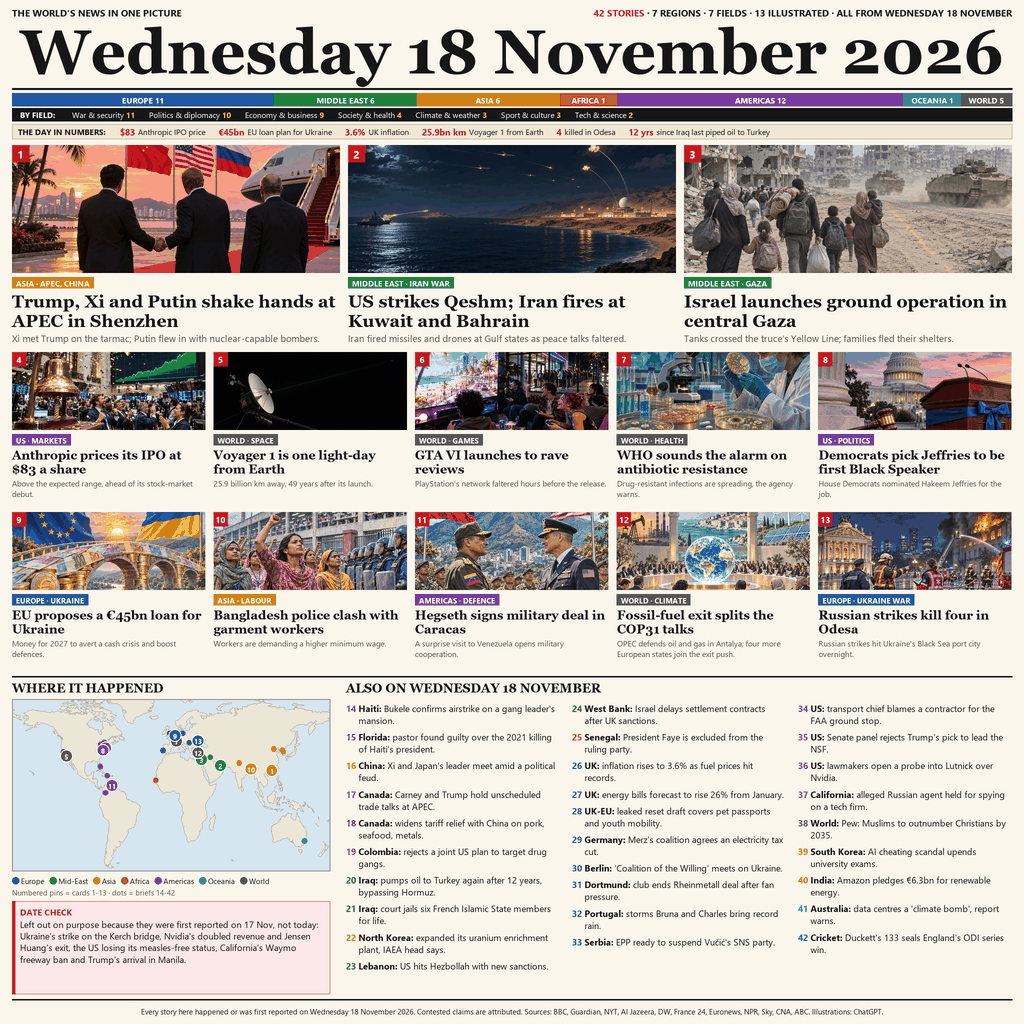
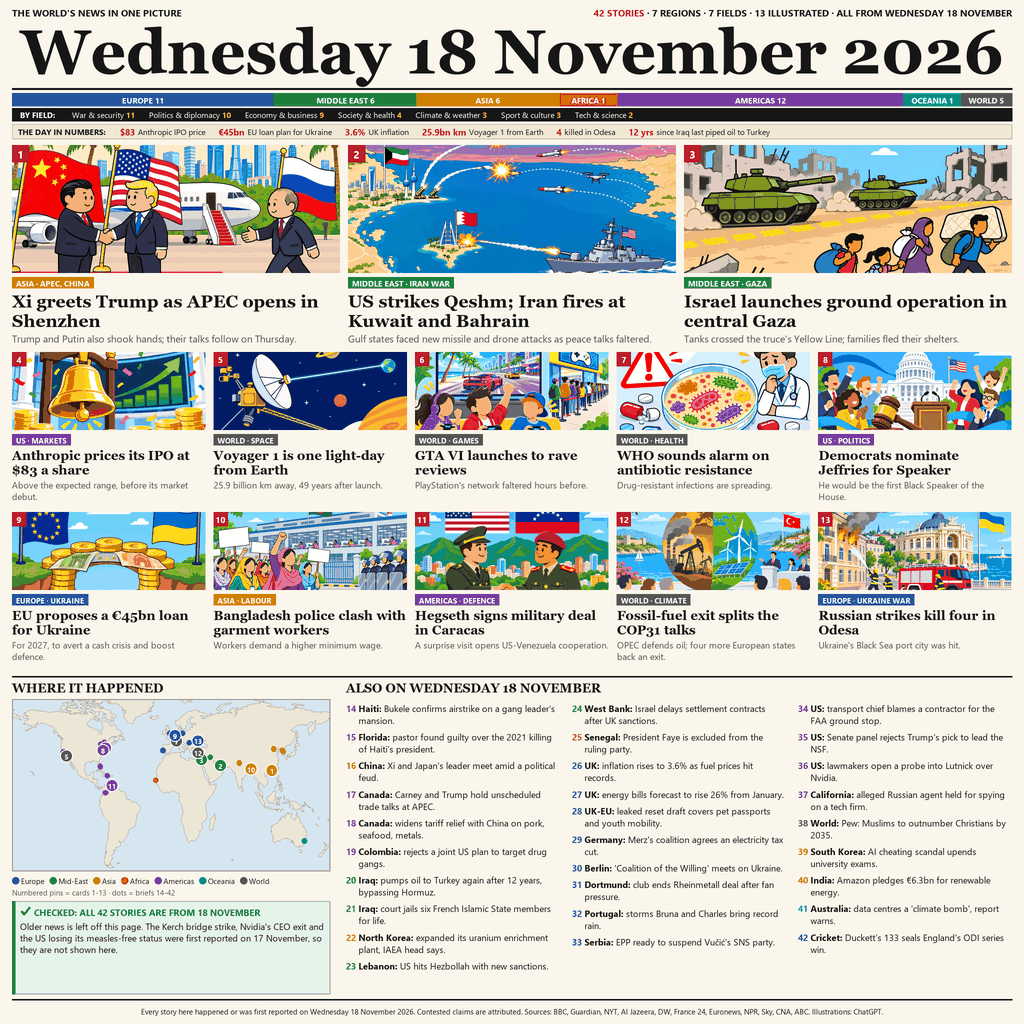
v2: flat-vector illustrations, consistent APEC lead, clearer date check, larger card text

diff --git a/make_front.py b/make_front.py
@@ -23,34 +23,34 @@ INK, PAPER, MUTED, RED = (22, 22, 22), (250, 246, 236), (88, 84, 76), (190, 30, 
 
 # (region, tag, headline, detail, lon, lat) - every item first reported on 18 Nov 2026
 LEADS = [
-    ("Asia", "ASIA \u00b7 APEC, CHINA", "Trump, Xi and Putin shake hands at APEC in Shenzhen",
-     "Xi met Trump on the tarmac; Putin flew in with nuclear-capable bombers.", 114.1, 22.5),
+    ("Asia", "ASIA \u00b7 APEC, CHINA", "Xi greets Trump as APEC opens in Shenzhen",
+     "Trump and Putin also shook hands; their talks follow on Thursday.", 114.1, 22.5),
     ("Middle East", "MIDDLE EAST \u00b7 IRAN WAR", "US strikes Qeshm; Iran fires at Kuwait and Bahrain",
-     "Iran fired missiles and drones at Gulf states as peace talks faltered.", 55.9, 26.8),
+     "Gulf states faced new missile and drone attacks as peace talks faltered.", 55.9, 26.8),
     ("Middle East", "MIDDLE EAST \u00b7 GAZA", "Israel launches ground operation in central Gaza",
      "Tanks crossed the truce's Yellow Line; families fled their shelters.", 34.4, 31.4),
 ]
 CARDS = [
     ("Americas", "US \u00b7 MARKETS", "Anthropic prices its IPO at $83 a share",
-     "Above the expected range, ahead of its stock-market debut.", -74.0, 40.7),
+     "Above the expected range, before its market debut.", -74.0, 40.7),
     ("World", "WORLD \u00b7 SPACE", "Voyager 1 is one light-day from Earth",
-     "25.9 billion km away, 49 years after its launch.", -118.2, 34.2),
+     "25.9 billion km away, 49 years after launch.", -118.2, 34.2),
     ("World", "WORLD \u00b7 GAMES", "GTA VI launches to rave reviews",
-     "PlayStation's network faltered hours before the release.", None, None),
-    ("World", "WORLD \u00b7 HEALTH", "WHO sounds the alarm on antibiotic resistance",
-     "Drug-resistant infections are spreading, the agency warns.", 6.1, 46.2),
-    ("Americas", "US \u00b7 POLITICS", "Democrats pick Jeffries to be first Black Speaker",
-     "House Democrats nominated Hakeem Jeffries for the job.", -77.0, 38.9),
+     "PlayStation's network faltered hours before.", None, None),
+    ("World", "WORLD \u00b7 HEALTH", "WHO sounds alarm on antibiotic resistance",
+     "Drug-resistant infections are spreading.", 6.1, 46.2),
+    ("Americas", "US \u00b7 POLITICS", "Democrats nominate Jeffries for Speaker",
+     "He would be the first Black Speaker of the House.", -77.0, 38.9),
     ("Europe", "EUROPE \u00b7 UKRAINE", "EU proposes a \u20ac45bn loan for Ukraine",
-     "Money for 2027 to avert a cash crisis and boost defences.", 4.4, 50.8),
+     "For 2027, to avert a cash crisis and boost defence.", 4.4, 50.8),
     ("Asia", "ASIA \u00b7 LABOUR", "Bangladesh police clash with garment workers",
-     "Workers are demanding a higher minimum wage.", 90.4, 23.8),
+     "Workers demand a higher minimum wage.", 90.4, 23.8),
     ("Americas", "AMERICAS \u00b7 DEFENCE", "Hegseth signs military deal in Caracas",
-     "A surprise visit to Venezuela opens military cooperation.", -66.9, 10.5),
+     "A surprise visit opens US-Venezuela cooperation.", -66.9, 10.5),
     ("World", "WORLD \u00b7 CLIMATE", "Fossil-fuel exit splits the COP31 talks",
-     "OPEC defends oil and gas in Antalya; four more European states join the exit push.", 30.7, 36.9),
+     "OPEC defends oil; four more European states back an exit.", 30.7, 36.9),
     ("Europe", "EUROPE \u00b7 UKRAINE WAR", "Russian strikes kill four in Odesa",
-     "Russian strikes hit Ukraine's Black Sea port city overnight.", 30.7, 46.5),
+     "Ukraine's Black Sea port city was hit.", 30.7, 46.5),
 ]
 # (region, place, text, lon, lat)
 BRIEFS = [
@@ -89,9 +89,9 @@ FIELDS = [("War & security", 11), ("Politics & diplomacy", 10), ("Economy & busi
 NUMBERS = [("$83", "Anthropic IPO price"), ("\u20ac45bn", "EU loan plan for Ukraine"),
            ("3.6%", "UK inflation"), ("25.9bn km", "Voyager 1 from Earth"),
            ("4", "killed in Odesa"), ("12 yrs", "since Iraq last piped oil to Turkey")]
-DATE_CHECK = ("Left out on purpose because they were first reported on 17 Nov, not today: "
-              "Ukraine's strike on the Kerch bridge, Nvidia's doubled revenue and Jensen Huang's exit, "
-              "the US losing its measles-free status, California's Waymo freeway ban and Trump's arrival in Manila.")
+DATE_HEAD = "CHECKED: ALL 42 STORIES ARE FROM 18 NOVEMBER"
+DATE_CHECK = ("Older news is left off this page. The Kerch bridge strike, Nvidia's CEO exit and the US "
+              "losing its measles-free status were first reported on 17 November, so they are not shown here.")
 
 
 def font(name, size):
@@ -145,14 +145,10 @@ def bands(im, axis, min_len):
 
 
 def load_art():
-    """3 lead pictures, then 10 card pictures in card order."""
-    leads = [Image.open(ART / f"{n}.jpg").convert("RGB") for n in ("lead1_apec", "lead2_gulf", "lead3_gaza")]
-    cards = [Image.open(ART / f"{n}.jpg").convert("RGB")
-             for n in ("card04_ipo", "card05_voyager", "card06_gta", "card07_lab", "card08_capitol")]
-    sheet = Image.open(ART / "cards09_13_sheet.jpg").convert("RGB")
-    for band in bands(sheet, 0, 150):          # two rows of two, then one wide panel
-        cards += bands(band, 1, 150)
-    assert len(cards) == 10, len(cards)
+    """3 lead pictures (art/L1-L3.jpg), then 10 card pictures (art/C4-C13.jpg) in card order.
+    All are flat-vector ChatGPT illustrations: bright and readable at thumbnail size."""
+    leads = [Image.open(ART / f"L{i}.jpg").convert("RGB") for i in range(1, 4)]
+    cards = [Image.open(ART / f"C{i}.jpg").convert("RGB") for i in range(4, 14)]
     return leads, cards
 
 
@@ -181,14 +177,18 @@ def card(img, d, x, y, w, ih, n, story, art, hl_size, det_size, lead=False):
     text(d, (x + 4, ty + 5.8), tag, tf, (255, 255, 255), "lm")
     hf = font(SERIF_B, hl_size)
     ly = ty + 14
-    for line in wrap(d, head, hf, w)[:2]:
+    head_lines, det_lines = wrap(d, head, hf, w), wrap(d, detail, font(SANS, det_size), w)
+    if len(head_lines) > 2 or len(det_lines) > 2:   # never cut words off silently
+        raise SystemExit(f"card {n} text too long: {head_lines} {det_lines}")
+    for line in head_lines:
         text(d, (x, ly), line, hf)
         ly += hl_size * 1.12
     df = font(SANS, det_size)
     ly += 1.5
-    for line in wrap(d, detail, df, w)[:2]:
+    for line in det_lines:
         text(d, (x, ly), line, df, MUTED)
         ly += det_size * 1.25
+    return ly
 
 
 def world_map(img, d, x, y, w, h):
@@ -278,11 +278,13 @@ def main():
     gap = 8
     lw = (W - 2 * M - 2 * gap) / 3
     for i, st in enumerate(LEADS):
-        card(img, d, M + i * (lw + gap), 145, lw, 128, i + 1, st, leads_art[i], 17.5, 9.6, lead=True)
+        end = card(img, d, M + i * (lw + gap), 145, lw, 128, i + 1, st, leads_art[i], 17.5, 10.2, lead=True)
+        if end > 350:   # the card row below starts at y = 352
+            raise SystemExit(f"lead {i + 1} text runs into the card row (ends at y {end:.0f})")
     cw = (W - 2 * M - 4 * gap) / 5
     for i, st in enumerate(CARDS):
         row, col = divmod(i, 5)
-        card(img, d, M + col * (cw + gap), 352 + row * 160, cw, 78, i + 4, st, cards_art[i], 12.6, 8.4)
+        card(img, d, M + col * (cw + gap), 352 + row * 160, cw, 78, i + 4, st, cards_art[i], 13.0, 9.2)
     # bottom: map + date check (left), also-on list (right)
     by = 676
     rect(d, (M, by, W - M, by + 1.2), fill=INK)
@@ -297,12 +299,16 @@ def main():
         text(d, (lx + 9, ly - 0.5), lab, font(SANS, 7.6))
         lx += 12 + d.textlength(lab, font=font(SANS, 7.6)) / S + 2
     text(d, (M, ly + 11), "Numbered pins = cards 1-13 \u00b7 dots = briefs 14-42", font(SANS, 7.6), MUTED)
-    # date check box
+    # date check box: green, says plainly that older stories are NOT on the page
     dy = by + 225
-    rect(d, (M, dy, M + mw, H - 30), fill=(252, 232, 232), outline=(214, 150, 150))
-    rect(d, (M, dy, M + 3, H - 30), fill=RED)
-    text(d, (M + 8, dy + 5), "DATE CHECK", font(SANS_B, 8.6), RED)
-    yy = dy + 17
+    GREEN = (22, 120, 60)
+    rect(d, (M, dy, M + mw, H - 30), fill=(228, 244, 232), outline=(140, 196, 156))
+    rect(d, (M, dy, M + 3, H - 30), fill=GREEN)
+    # green tick drawn as two strokes (Segoe UI has no check-mark glyph)
+    d.line([((M + 9) * S, (dy + 10) * S), ((M + 12) * S, (dy + 13.5) * S), ((M + 18) * S, (dy + 6) * S)],
+           fill=GREEN, width=2 * S)
+    text(d, (M + 22, dy + 5), DATE_HEAD, font(SANS_B, 9.0), GREEN)
+    yy = dy + 19
     for line in wrap(d, DATE_CHECK, font(SANS, 9.2), mw - 14):
         text(d, (M + 8, yy), line, font(SANS, 9.2))
         yy += 11.6
